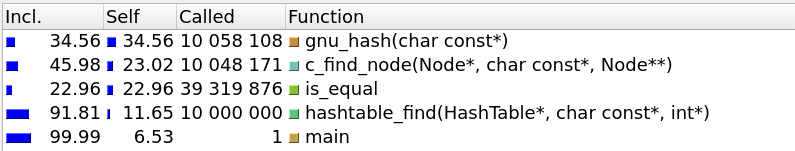
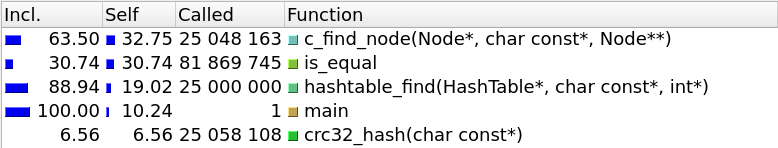
Update FIND_NUMBER and measurements results

diff --git a/source/table.cpp b/source/table.cpp
@@ -8,7 +8,7 @@
 const size_t TABLE_BUFFER_SIZE = 9973u;
 
 /// Amount of hashtable_find() to perform
-const size_t FIND_NUMBER = 10000000;
+const size_t FIND_NUMBER = 25000000;
 
 
 

diff --git a/README.md b/README.md
@@ -24,7 +24,7 @@
 
 **Условия измерений**
 - Все измерения производились с опцией -O3 компилятора gcc, а также набором инструкций AVX2.
-- В коде main функция поиска вызывалась 10 000 000 раз, чтобы акцентировать на нее время работы.
+- В коде main функция поиска вызывалась 25 000 000 раз, чтобы акцентировать на нее время работы.
 - Замеры проводились при одной температуре CPU (49.8), чтобы избежать искажения показаний из-за троттлинга CPU.
 
 
@@ -39,7 +39,7 @@ conv.exe [input-filename] [output-filename]
 
 | Время работы(*мс*) | Абсолютное | Относительное | Погрешность |
 |:------------------ |:---------- |:------------- |:----------- |
-| 941                | 1          | 1             | 1.87%       |
+| 1685               | 1          | 1             | 1.03%       |
 
 *Абсолютное - ускорение, относительно версии 0. Относительное - ускорение относительно предыдущей версии. Погрешность - относительная погрешность измерения времени.*
 
@@ -50,42 +50,10 @@ conv.exe [input-filename] [output-filename]
 *Incl. - все время занимаемое функцией в процентах от времени работы программы. Self - время работы функции в процентах, без учета функций, вызываемых внутри нее. Called - сколько раз была вызвана функция. Function - имя функции.*
 
 
-#### Версия 1 (fastcmp)
+#### Версия 1 (crc32)
 
 
-Как видно из вывода callgrind, наибольшее время занимает сравнение строк (время функций *is_equal* + *__strcmp_avx2*). Так как каждая строка выровнена на 32 байта и имеет размер кратный 32 байтам, то мы можем использовать SIMD инструкции для быстрого сравнения сразу 32 байт.
-
-```C
-while (1) {
-    __m256i a = _mm256_load_si256((const __m256i *) str1);
-    __m256i b = _mm256_load_si256((const __m256i *) str2);
-    
-    __m256i res = _mm256_sub_epi8(a, b);
-
-    if (!_mm256_testz_si256(res, _mm256_set1_epi32(0xFFFFFFFF)))
-        return 0;
-
-    if (str1[STR_ALIGN - 1] == 0 && str2[STR_ALIGN - 1] == 0) break;
-    
-    str1 += STR_ALIGN, str2 += STR_ALIGN;
-};
-
-return 1;
-```
-
-| Время работы(*мс*) | Абсолютное | Относительное | Погрешность |
-|:------------------ |:---------- |:------------- |:----------- |
-| 832                | 1.13       | 1.13          | 1.71%       |
-
-Вывод профайлера:
-
-![profile(fastcmp)](assets/profile(fastcmp).png "Profile data for version with fastcmp optimization")
-
-
-#### Версия 2 (crc32)
-
-
-Как видно из вывода callgrind, время занимаемое is_equal уменьшилось на 18%, и наиболее затратной по времени стала функция хеширования. В предыдущих версиях мы использовали алгоритм gnu_hash, теперь мы заменим его аппаратно поддерживаемым crc32. Реализуем его с помощью директивы *asm*, которая позволяет напрямую вставлять ассемблерный код в функции C, при этом отключая встроенные в компилятор оптимизации.
+Как видно из вывода callgrind, наиболее затратной по времени является функция хеширования. В предыдущих версиях мы использовали алгоритм gnu_hash, теперь мы заменим его аппаратно поддерживаемым crc32. Реализуем его с помощью директивы *asm*, которая позволяет напрямую вставлять ассемблерный код в функции C, при этом отключая встроенные в компилятор оптимизации.
 
 ```C
 hash_t sum = 0;
@@ -109,17 +77,49 @@ return sum;
 
 | Время работы(*мс*) | Абсолютное | Относительное | Погрешность |
 |:------------------ |:---------- |:------------- |:----------- |
-| 703                | 1.31       | 1.18          | 3.57%       |
+| 1441               | 1.17       | 1.17          | 1.34%       |
 
 Вывод профайлера:
 
 ![profile(crc32)](assets/profile(crc32).png "Profile data for version with crc32 optimization")
 
 
+#### Версия 2 (fastcmp)
+
+
+Наибольшее время теперь занимает сравнение строк (время функций *is_equal* + *__strcmp_avx2*). Так как каждая строка выровнена на 32 байта и имеет размер кратный 32 байтам, то мы можем использовать SIMD инструкции для быстрого сравнения сразу 32 байт.
+
+```C
+while (1) {
+    __m256i a = _mm256_load_si256((const __m256i *) str1);
+    __m256i b = _mm256_load_si256((const __m256i *) str2);
+    
+    __m256i res = _mm256_sub_epi8(a, b);
+
+    if (!_mm256_testz_si256(res, _mm256_set1_epi32(0xFFFFFFFF)))
+        return 0;
+
+    if (str1[STR_ALIGN - 1] == 0 && str2[STR_ALIGN - 1] == 0) break;
+    
+    str1 += STR_ALIGN, str2 += STR_ALIGN;
+};
+
+return 1;
+```
+
+| Время работы(*мс*) | Абсолютное | Относительное | Погрешность |
+|:------------------ |:---------- |:------------- |:----------- |
+| 1308               | 1.27       | 1.1           | 1.34%       |
+
+Вывод профайлера:
+
+![profile(fastcmp)](assets/profile(fastcmp).png "Profile data for version with fastcmp optimization")
+
+
 #### Версия 3 (find_node)
 
 
-Как видно из вывода callgrind, время занимаемое функцией хеширования уменьшилось на 28%, что вывело на первое место по временным затратам функцию поиска в связном списке. Мы напишем свою ассемблерную реализацию этой функции. Так как компилятор генерирует код для общего случая, то наша специализированная реализация будет быстрее. Для ознакомления приведем фрагмент реализации цикла, полный код можно найти в файле *source/find_node.s*.
+Время занимаемое функцией сравнения строк уменьшилось на 18%, что вывело на первое место по временным затратам функцию поиска в связном списке. Мы напишем свою ассемблерную реализацию этой функции. Так как компилятор генерирует код для общего случая, то наша специализированная реализация будет быстрее. Для ознакомления приведем фрагмент реализации цикла, полный код можно найти в файле *source/find_node.s*.
 
 ```assembly
 asm_find_node:
@@ -153,13 +153,13 @@ asm_find_node:
 
 | Время работы(*мс*) | Абсолютное | Относительное | Погрешность |
 |:------------------ |:---------- |:------------- |:----------- |
-| 683                | 1.34       | 1.03          | 2.02%       |
+| 1301               | 1.28       | 1.01          | 1.12%       |
 
 Вывод профайлера:
 
 ![profile(find_node)](assets/profile(find_node).png "Profile data for version with find_node optimization")
 
-Наша функция (*функция по адресу 0x402400*) смогла обогнать реализацию -O3 всего на 3%. Дальнейшие ассемблерные оптимизации не имеют смысла и только навредят портируемости программы.
+Наша функция (*функция по адресу 0x402400*) смогла обогнать реализацию -O3 всего на 1%. Дальнейшие ассемблерные оптимизации не имеют смысла и только навредят портируемости программы.
 
 
 ### Результат
@@ -169,10 +169,10 @@ asm_find_node:
 
 | Время работы(*мс*) | Абсолютное ускорение |  Погрешность |
 |:------------------ |:-------------------- |:------------ |
-| 683                | 1.34                 | 3.87%        |
+| 1301               | 1.28                 | 2.15%        |
 
 
 ### Вывод
 
 
-Использование различных ассемблерных оптимизаций позволило ускорить работу хеш-таблицы на 34%. Однако такие оптимизации портят портируемость кода и требуют индивидуального подхода к конкретному случаю.
+Использование различных ассемблерных оптимизаций позволило ускорить работу хеш-таблицы на 28%. Однако такие оптимизации портят портируемость кода и требуют индивидуального подхода к конкретному случаю.
